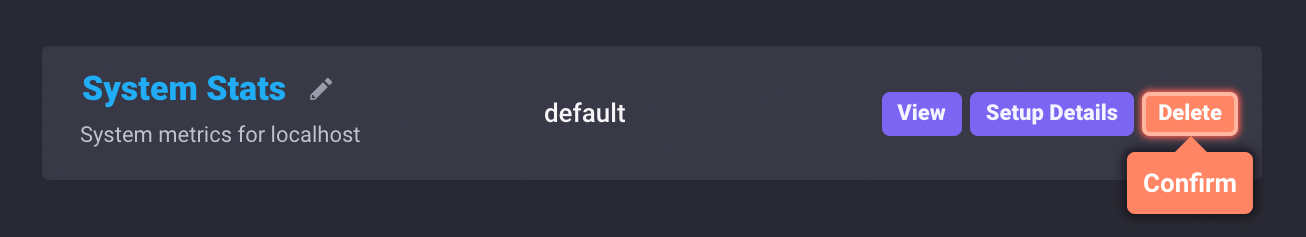
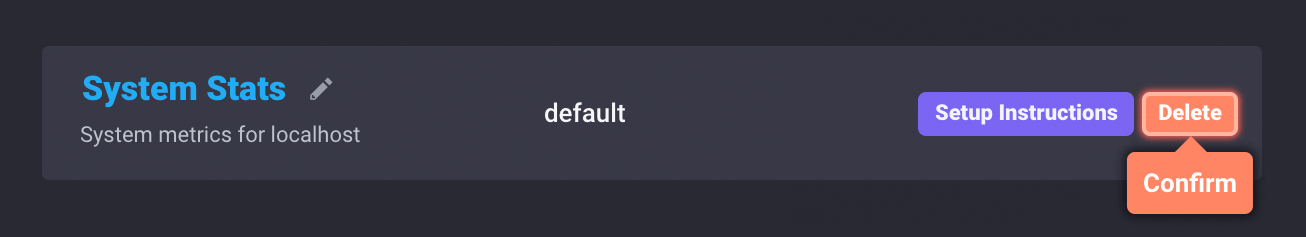
updated telegraf config management docs

Changed region(s): [[0.6738, 0.384, 0.8576, 0.5907]]

diff --git a/content/v2.0/collect-data/use-telegraf/auto-config/view-telegraf-config.md b/content/v2.0/collect-data/use-telegraf/auto-config/view-telegraf-config.md
@@ -2,7 +2,7 @@
 title: View a Telegraf configuration
 seotitle: View a Telegraf configuration in the InfluxDB UI
 description: >
-  View the `telegraf.conf` and setup details associated with a Telegraf configuration
+  View the `telegraf.conf` and setup instructions associated with a Telegraf configuration
   created in the InfluxDB UI.
 menu:
   v2_0:
@@ -23,10 +23,12 @@ View Telegraf configuration information in the InfluxDB user interface (UI):
     {{< img-hd src="/img/2-0-telegraf-config-view.png" />}}
 
 
-### View the telegraf.conf
-To view the actual `telegraf.conf` associated with the configuration, click **View**.
+### View and download the telegraf.conf
+To view the actual `telegraf.conf` associated with the configuration,
+click the **Name** of the configuration.
+Then click **Download Config** to download the file.
 
-### View the setup details
-To view the setup instructions, click **Setup Details**.
-Setup details include commands for adding your InfluxDB authentication token as an environment
-variable and starting Telegraf with the specific configuration.
+### View the setup instructions
+To view the setup instructions, click **Setup Instructions**.
+Setup instructions include commands for adding your InfluxDB authentication token
+as an environment variable and starting Telegraf with the specific configuration.

diff --git a/content/v2.0/collect-data/use-telegraf/auto-config/_index.md b/content/v2.0/collect-data/use-telegraf/auto-config/_index.md
@@ -69,7 +69,7 @@ export INFLUX_TOKEN=YourAuthenticationToken
 Start the Telegraf service using the `-config` flag to specify the URL of your generated configuration file.
 Telegraf starts using the Telegraf configuration pulled from InfluxDB API.
 
-_See the configuration **Setup Details** for the exact command._
+_See the configuration **Setup Instructions** for the exact command._
 
 ```sh
 telegraf -config http://localhost:9999/api/v2/telegrafs/0xoX00oOx0xoX00o
